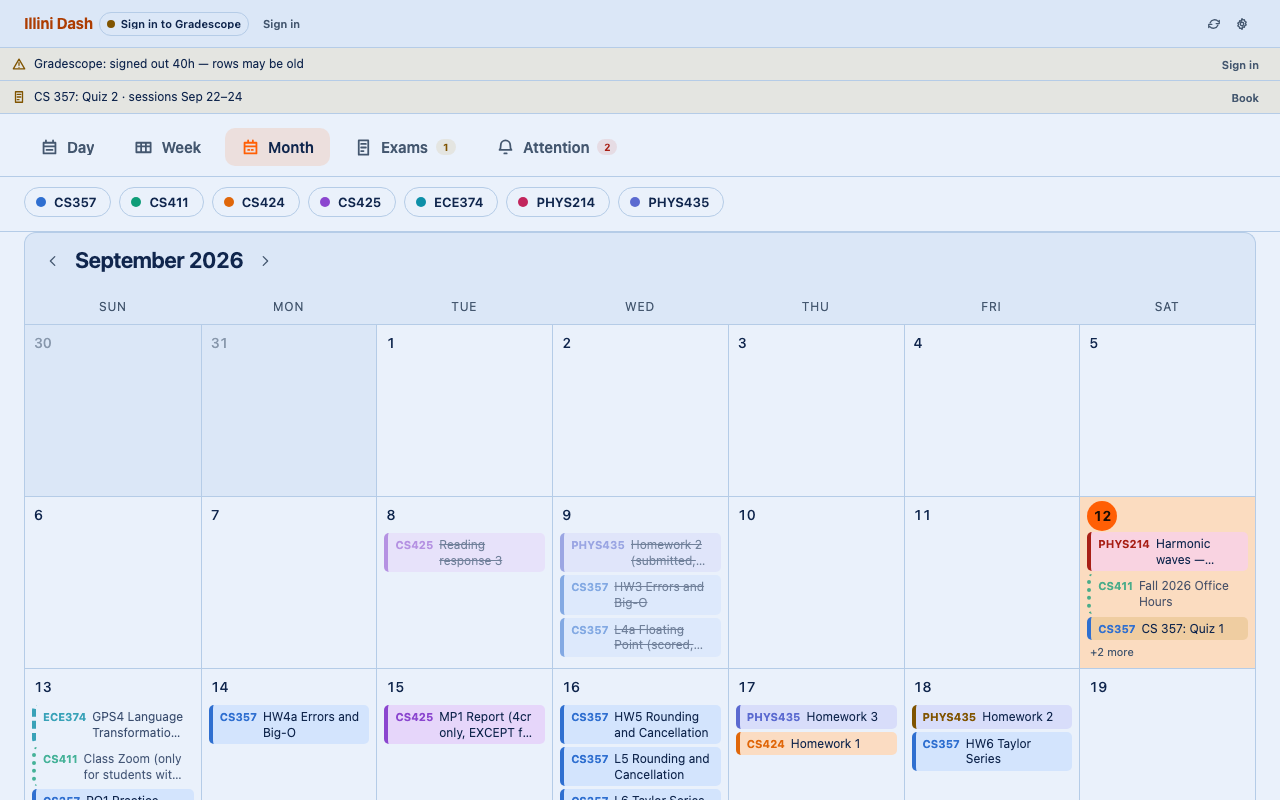
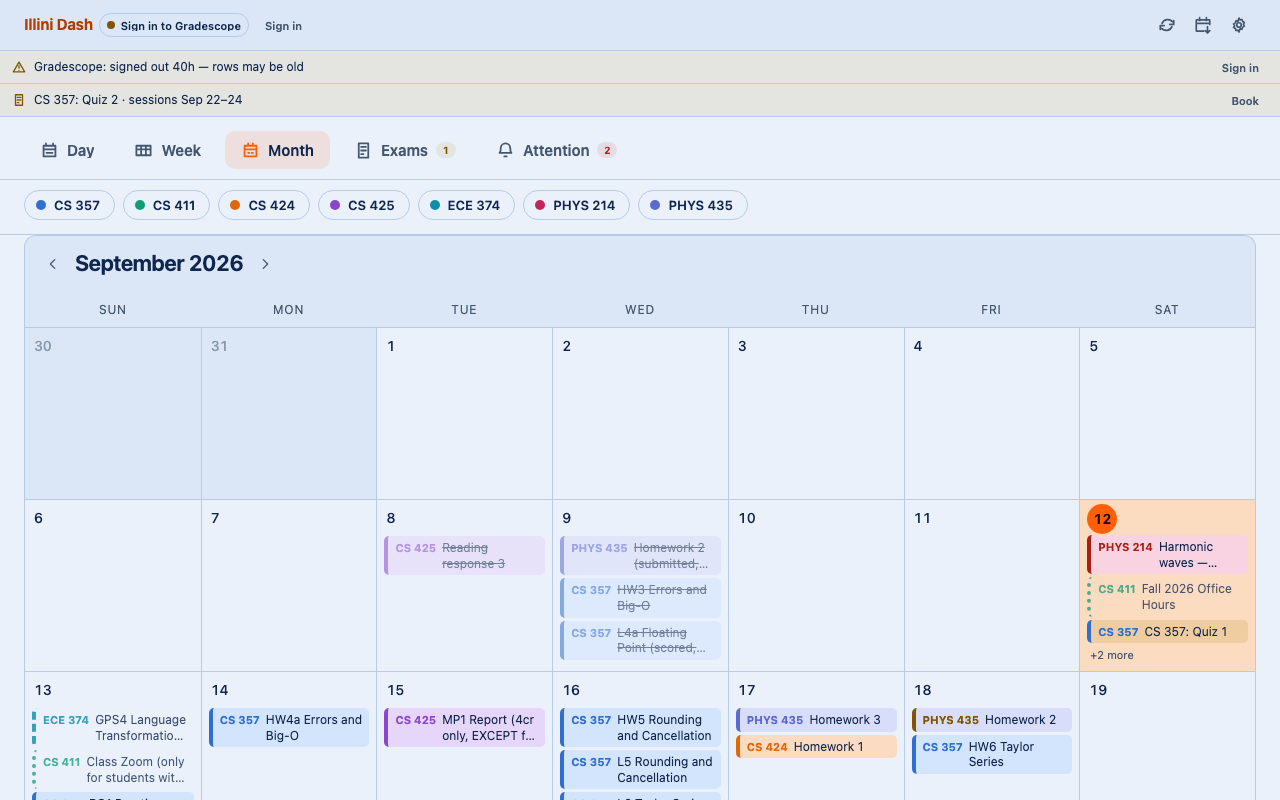
The menu opened below the fold, and the month had none
"For week, hide doesn't work. Merge doesn't work either. And for month, there's
none of those options." Naming the views is what made it findable.

Reproduced in a 400x600 iframe of the real popup: the menu for the last week row
opened at y=561 and ended at y=711. placeFloating only ever opened downward, and
its floor made it worse -- offered 31 pixels it refused to shrink below 140 and
ran off the bottom anyway. Nothing downstream can rescue that: MAX_POPUP_HEIGHT
is Chrome's own cap, so growing the document cannot reveal what is past it, and
a fixed panel does not scroll into view.

Week hits it and day does not for a structural reason: week is the tallest list
there is, seven day rows and 1113px of document in a 600px window, so its rows
sit low far more often. And Hide and Merge are the third and fourth of five menu
items -- the student sees the menu open, sees the top of it, and the entries
they wanted are past the edge.

It flips above the anchor when there is no room below. Ties go downward, where a
menu is expected. Verified across all 17 week rows.

The month had no menu at all -- Mark done, Hide, Split and Merge unreachable,
and the keyboard too, since a pill was a div with a click handler and no role. A
separate control does not fit in a third of a month cell without taking the
characters that say which assignment it is, so the pill is the control: one
extra click on the open path, since the menu leads with "Open in Gradescope".
[…]

diff --git a/src/ui/popup.ts b/src/ui/popup.ts
@@ -799,15 +799,42 @@ function closeMenus(): void {
  */
 function placeFloating(panel: HTMLElement, anchor: HTMLElement, align: "left" | "right"): void {
   const box = anchor.getBoundingClientRect();
-  const top = box.bottom + 4;
   panel.style.position = "fixed";
-  panel.style.top = `${top}px`;
+  panel.style.overflowY = "auto";
 
   // The full view is an ordinary tab and its window is however tall it is; the
   // popup is capped by the browser whatever the document says.
   const ceiling = isFullView ? window.innerHeight : MAX_POPUP_HEIGHT;
-  panel.style.maxHeight = `${Math.max(140, ceiling - top - 8)}px`;
-  panel.style.overflowY = "auto";
+
+  /*
+   * Downward if it fits, upward if it does not.
+   *
+   * This only ever opened downward, and the `Math.max(140, …)` floor below made
+   * that worse: faced with 31 pixels of room it refused to shrink under 140 and
+   * then ran off the bottom anyway. In the popup nothing can rescue that —
+   * `MAX_POPUP_HEIGHT` is Chrome's cap, so growing the document cannot reveal
+   * what is past it, and a panel positioned `fixed` does not scroll into view.
+   *
+   * Reported as "hide doesn't work in week view", which is what it looks like:
+   * week is the tallest list there is — seven day rows, 1113px of document in a
+   * 600px window — so its rows sit low far more often than a day's do, and
+   * **Hide and Merge are the third and fourth of five menu items**. The menu
+   * opened, the student saw the top of it, and the two entries they wanted were
+   * below the fold. Measured: a menu for the last week row opened at y=561 and
+   * ended at 711.
+   *
+   * Measured before a max-height is applied, so `offsetHeight` is the height the
+   * panel actually wants rather than one this function has already clamped.
+   */
+  const wanted = panel.offsetHeight;
+  const below = ceiling - (box.bottom + 4) - 8;
+  const above = box.top - 4 - 8;
+  // Ties and near-ties go downward: that is where a menu is expected, and
+  // flipping for a few pixels makes the control feel unpredictable.
+  const flip = wanted > below && above > below;
+  const top = flip ? Math.max(8, box.top - 4 - Math.min(wanted, above)) : box.bottom + 4;
+  panel.style.top = `${top}px`;
+  panel.style.maxHeight = `${Math.max(140, (flip ? above : below))}px`;
 
   if (align === "right") {
     panel.style.right = `${Math.max(8, document.documentElement.clientWidth - box.right)}px`;
@@ -818,8 +845,13 @@ function placeFloating(panel: HTMLElement, anchor: HTMLElement, align: "left" | 
   }
 
   // Measured after the cap and the width are set, so this is the height the
-  // panel will actually occupy rather than the one it would like.
-  document.body.style.minHeight = `${Math.min(MAX_POPUP_HEIGHT, top + panel.offsetHeight + 8)}px`;
+  // panel will actually occupy rather than the one it would like. Only when it
+  // opens downward: a panel that flipped upward is already inside the document
+  // Chrome is showing, and growing `minHeight` for it would add empty space
+  // under the list for nothing.
+  if (!flip) {
+    document.body.style.minHeight = `${Math.min(MAX_POPUP_HEIGHT, top + panel.offsetHeight + 8)}px`;
+  }
 }
 document.addEventListener("click", closeMenus);
 // A fixed panel does not travel with the document, so a page scrolled under an
@@ -1279,7 +1311,10 @@ function renderSetupRow(row: SetupRow): HTMLElement {
  * wholesale on each one.
  */
 function rowsInView(): HTMLElement[] {
-  return [...viewEl.querySelectorAll<HTMLElement>("a.row")];
+  // The month has no `a.row` at all — it is a grid of pills — so the roving
+  // tabindex found nothing there and ↑ ↓ did nothing. A pill is a `role=button`
+  // that opens the same menu, so it belongs in the same ring.
+  return [...viewEl.querySelectorAll<HTMLElement>("a.row, .mpill[role='button']")];
 }
 
 function makeRowsNavigable(): void {
@@ -2089,8 +2124,36 @@ function renderMonthPill(
     ? `${item.title} — ${UNTIMED_NOTE}`
     : `${item.title} — ${anchor.opening ? "opens " : ""}${clockOf(anchor.at)}`;
 
-  const url = safeUrl(item.url);
-  if (url) pill.addEventListener("click", () => chrome.tabs.create({ url }));
+  /*
+   * The pill opens the row menu, not the source.
+   *
+   * "For month, there's none of those options" — a beta report, and it was
+   * exactly right: Mark done, Hide, Split and Merge were unreachable from the
+   * month entirely, and so was the keyboard, because this was a `div` with a
+   * click handler and no role.
+   *
+   * A `⋯` of its own does not fit. A month cell holds three pills and each is a
+   * course code plus a title in the width of a seventh of the window; a control
+   * beside that would take the title's remaining characters, and the title is
+   * the only thing that says which assignment this is.
+   *
+   * So the pill *is* the control, and it costs one click on the open path
+   * rather than removing it: `openRowMenu` leads with "Open in Gradescope",
+   * which is the same destination this used to go to directly. That trade reads
+   * the right way round for a month — it is the view you plan in, not the one
+   * you work from, and everything else a student can do to a row was missing.
+   */
+  pill.setAttribute("role", "button");
+  pill.tabIndex = -1;
+  const open = (event: Event) => {
+    event.preventDefault();
+    event.stopPropagation();
+    openRowMenu(item, pill);
+  };
+  pill.addEventListener("click", open);
+  pill.addEventListener("keydown", (event) => {
+    if (event.key === "Enter" || event.key === " ") open(event);
+  });
   return pill;
 }
 

diff --git a/PROGRESS.md b/PROGRESS.md
@@ -68,6 +68,45 @@ iteration into thirty seconds.
 
 973 tests, 38 shots.
 
+## Found it: the menu opened below the fold — 2026-09-12
+
+*"For week, hide doesn't work. Merge doesn't work either. And for month, there's none of
+those options."*
+
+Two views named, and that is what made it findable. Reproduced in a 400x600 iframe of the
+real popup: **the menu for the last week row opened at y=561 and ended at y=711.**
+
+`placeFloating` only ever opened downward, and its floor made that worse — offered 31
+pixels of room it refused to shrink below 140 and then ran off the bottom anyway. Nothing
+downstream can rescue that: `MAX_POPUP_HEIGHT` is Chrome's own cap, so growing the document
+cannot reveal what is past it, and a `position: fixed` panel does not scroll into view.
+
+**Week hits it and day does not, for a structural reason.** Week is the tallest list there
+is — seven day rows, 1113px of document in a 600px window — so its rows sit low far more
+often. And **Hide and Merge are the third and fourth of five menu items**: the student sees
+the menu open, sees the top of it, and the two entries they wanted are the ones past the
+edge. "It opens but the thing I want isn't there" reads exactly as "hide doesn't work".
+
+It flips above the anchor when there is no room below. Ties go downward, because that is
+where a menu is expected and flipping for a few pixels makes a control feel unpredictable.
+Verified across all 17 week rows: nothing off-screen, Hide and Merge reachable on every one.
+
+**The month had no menu at all**, which was not a bug so much as an omission — Mark done,
+Hide, Split and Merge were unreachable there, and so was the keyboard, because a pill was a
+`div` with a click handler and no role. A `⋯` of its own does not fit: a cell holds three
+pills and each is a course code plus a title in a seventh of the window, so a control beside
+that takes the characters that say *which* assignment this is.
+
+So the pill **is** the control. It costs one click on the open path rather than removing it
+— `openRowMenu` leads with "Open in Gradescope", the same destination the click used to go
+to directly — and that trade reads the right way round for a month, which is the view you
+plan in rather than work from. Pills join the roving tabindex too; `rowsInView` matched
+`a.row` only, so ↑ ↓ did nothing in the month.
+
+All 23 pills verified: menu opens, nothing off-screen, Hide reachable.
+
+1023 tests.
+
 ## "Hiding an event doesn't work on the calendar" — audited, not found — 2026-09-12
 
 **I did not find this one, and I am recording that rather than a fix.**
